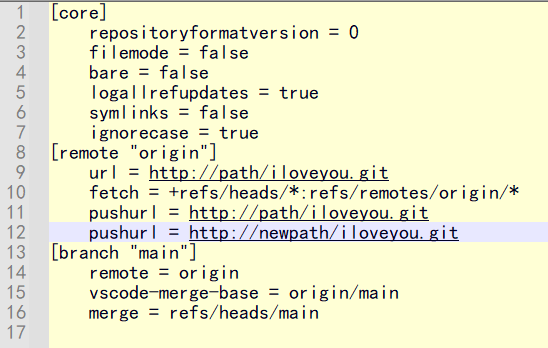
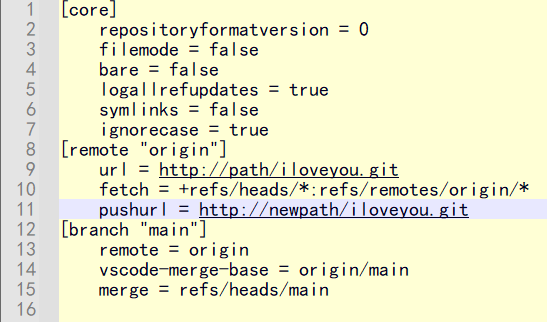
update git sync to other remote repo with difference path

Changed region(s): [[0.0, 0.0, 1.0, 1.0]]

diff --git a/README.md b/README.md
@@ -31,7 +31,6 @@ git remote -v
 輸出應類似於：
 ```Git
 origin  http://path/iloveyou.git (fetch)
-origin  http://path/iloveyou.git (push)
 ```
 設定多個 `remote.push`（自動推送）  
 方式一，使用 bash：
@@ -52,7 +51,6 @@ git remote -v
 輸出應類似於：
 ```Git
 origin  http://path/iloveyou.git (fetch)
-origin  http://path/iloveyou.git (push)
 origin  http://newpath/iloveyou.git (push)
 ```
 推送分支方式一，使用 bash：
